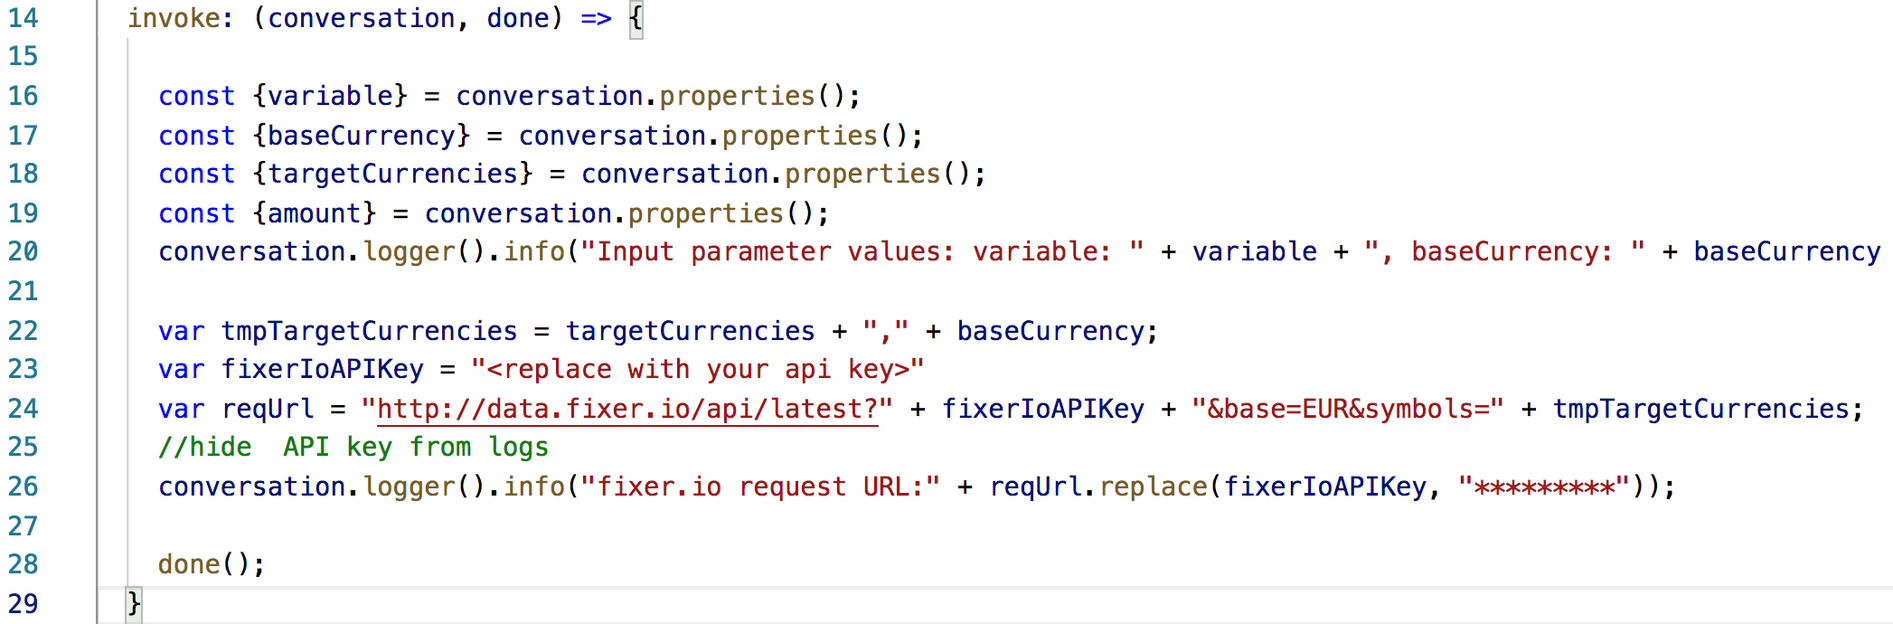
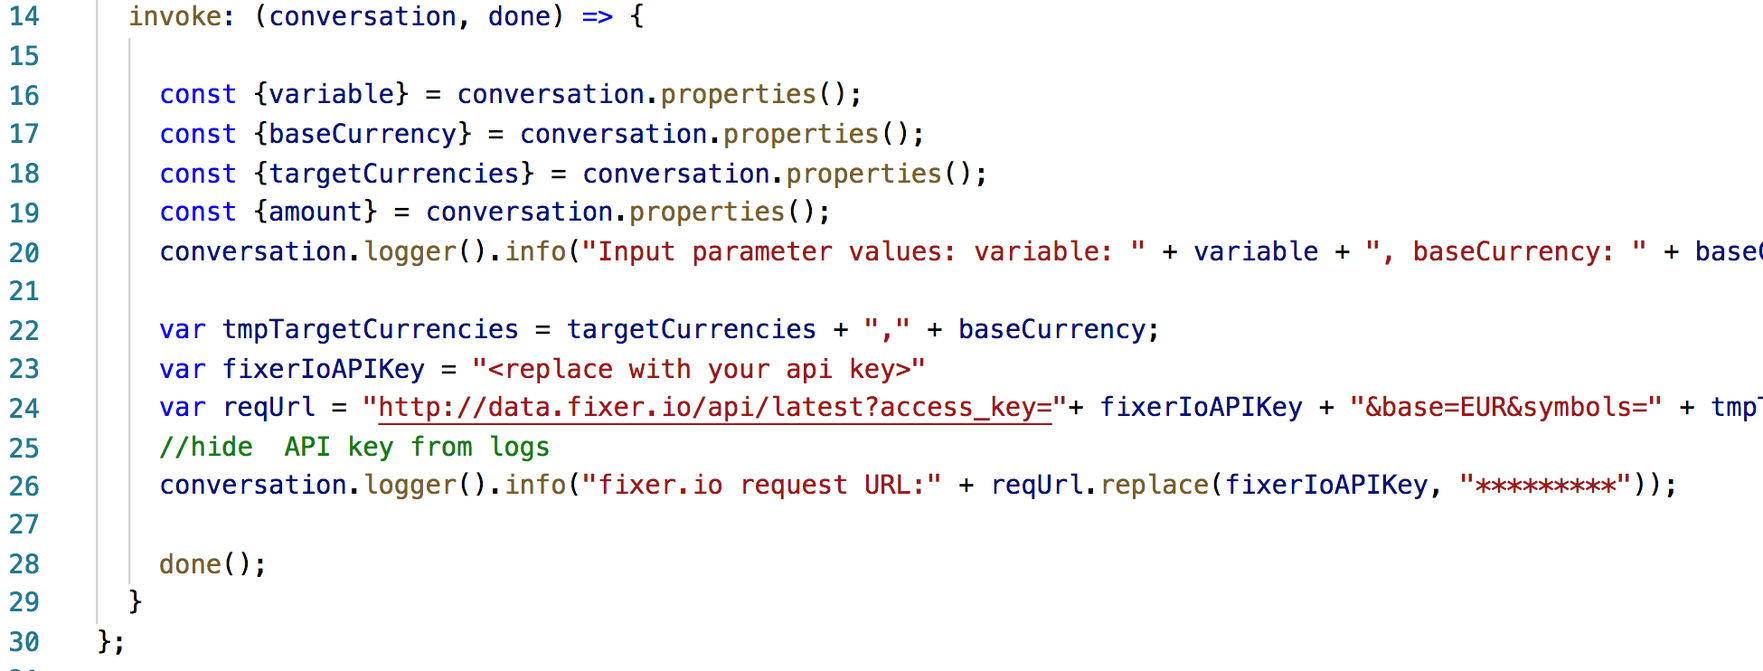
- Fixes - Relinking to Oracle Docs tutorials - New facebook Messenger channel tutorial - Custom component tutorial progress

diff --git a/tutorials/customcomponents/componentDevelopment_032019/index.html b/tutorials/customcomponents/componentDevelopment_032019/index.html
@@ -110,7 +110,7 @@
                     </section>
                     <hr>
                     <section>
-                        <h2 id="section_2" role="button" style="text-align: left;"><img src="img/32_2.png" alt="section 2" height="32" width="32" class="num_circ">Subscribing to fixer.io</h2>
+                        <h2 id="section_2" role="button" style="text-align: left;"><img src="img/32_2.png" alt="section 2" height="32" width="32" class="num_circ">Requesting a fixer.io Currency Converter API Key</h2>
                         <p style="text-align:justify">Fixer website, <a href="https://fixer.io" target="_blank"><b>fixer.io</b></a>, offers current and historic exchange rates for up to 170 currencies. To complete this tutorial, you need a free subscription that allows you to access current conversion rates. To complete this tutorial you will need a free account to access current exchange rates.</p>
                         <ol>
                             <li style="text-align:justify">Open the <a href="https://fixer.io" target="_blank"><b>fixer.io</b></a> in a browser window.</li>
@@ -214,16 +214,17 @@
                                 <pre>
 var tmpTargetCurrencies = targetCurrencies+","+baseCurrency;
 var fixerIoAPIKey = "&lt;replace with your api key&gt;"
-var reqUrl = "http://data.fixer.io/api/latest?"+fixerIoAPIKey+"&amp;base=EUR&amp;symbols="+tmpTargetCurrencies;
+var reqUrl = "http://data.fixer.io/api/latest?access_key="+fixerIoAPIKey + "&amp;base=EUR&amp;symbols=" + tmpTargetCurrencies;
 conversation.logger().info("fixer.io request URL:"+reqUrl.replace(fixerIoAPIKey,"*********"));
                             </pre>
+                                <b>Note:</b> You can download this code from <a href="files/converteruri.txt" target="_blank"><b>here</b></a> for easy copy & paste.
                             </li>
                             <li style="text-align:justify">The custom component's <b>invoke</b> should now look as shown in the image below<br>
                                 <figure><img src="img/jsedit_5.png" alt="component code"></figure>
                             </li>
                         </ol>
                         <p style="text-align:justify"><b>What you just did: </b> The free fixer.io subscription key only supports EUR as the base currency. To be able to still allow users to specify any currency as the base currency, the fixer.io request URL needs to contain the user specified base currency as an additional value for the target currency. The <code>replace(...)</code> function in the logging statement ensures that your fixer.io API key does not show in the log message.</p>
-                        <h3>Sending the request</h3>
+                        <h3>Adding the currency conversion code</h3>
                         <p style="text-align:justify">In this tutorial you use the <i>request</i> Node.js module to access the fixer.io REST service. Note that there exist other Node modules, e.g. <i>https</i> as part of the Node core installation, for the same.</p>
                         <ol>                            
                             <li style="text-align:justify">Open the terminal window again and navigate into the <b>converterccs</b> folder </li>
@@ -243,64 +244,127 @@ request(reqUrl, {json: true }, (err, res, body) => {
                             </pre>
                             <li style="text-align:justify">Your code should look as in the image below:<br>
                             <figure><img src="img/jsedit_6.png" alt="request call" width="100%" height="100%"></figure></li>
-                            <li style="text-align:justify">...</li>
+                            <li style="text-align:justify"><b>Remove</b>the <b>done();</b> code line (line 31 in above image). This code will move to another location in the final currency conversion implementation. It was left in as a reminder because it is an important (mandatory) call to make at the end of custom component processing.<br><br>
+                            <b>Note: </b>With this you defined the basic outline of the <i>complete.training.CurrencyConverter</i> component. What's missing is the code that actually implements the conversion of a base currency amount into one or more target currencies. The code for this is provided for you. So next you will be adding the provided code to your custom component. 
+                            
+                            </li>                            
+                            <li style="text-align:justify">Click <a href="files/converterimpl.txt" target="_blank"><b>this link</b></a> to open the <i>converterimpl.txt</i> text file that contains the currency converter implementation code</li>
+                            <li style="text-align:justify">Select and Copy all the code lines into the clipboard (ctrl+c on Windows or command+c on MAC).</li>
+                            <li style="text-align:justify">Place your mouse cursor into the <b>request function body</b> (line 29 in the image above).</li>
+                            <li style="text-align:justify">Paste the code from the cliboard (ctrl+v on Windows or command+v on MAC).</li>
+                            <li style="text-align:justify">Save your work.</li>
+                            <li style="text-align:justify"><b>Compare</b> your custom component with <a href="files/completecode.txt" target="_blank"><b>this sample code</b></a>. </li> Use this sample also as a reference find and fix problems in your code that may show testing in Oracle Digital Assistant.
                         </ol>
+                        <p style="text-align:justify"><b>Note: </b> Let's hold on for a few minutes to understand the implementation code you just added.<br><figure><img src="img/jsedit_7.png" alt="completed request function" width="100%" height="100%"></figure></p>
+                        
+                        <table class="body-table" style="text-align:justify" summary="This table ...">
+                            <tr>
+                                <th scope="col">Line</th>
+                                <th scope="col">Description</th>
+                            </tr>
+                             <tr>
+                                    <td scope="row">28</td>
+                                    <td>This code line performs the REST call to the fixer.io website. It then calls and anonymous function to which it passes the response object (res), the response body (body) and, if existing, the error object (err)</td>
+                             </tr>
+                             <tr>
+                                 <td scope="row">30</td>
+                                 <td>If the REST service call succeeded, then a http status code of 200 is returned.</td>
+                             </tr>
+                             <tr>
+                                 <td scope="row">31</td>
+                                 <td>Still the response may contain an error, if, for example, the API key that was passed with the request is invalid. This line of code checks the response body for whether the conversion was successful or not.</td>                                 
+                             </tr>
+                            <tr>
+                            <td scope="row">35</td>
+                            <td>If the request returned conversion rates, then these are saved in an array within the response body. The returned body is a JSON object, so that the rates can be accessed from <i>body.rates</i>.</td>
+                            </tr>
+                            <tr>
+                            <td scope="row">36</td>
+                            <td>To work around one of the limitation of the free fixer.io API key, which is that only <i>EUR</i> can be used as a base currency in the request, the base currency sent from the bot is added to the request as a target currecncy. In this line of code, the base currency is removed from the conversation rates so that only target currencies get reported back to the bot.</td>
+                            </tr>
+                            <tr>
+                            <td scope="row">37</td>
+                            <td>Compute the converted amount for the current handled target currency. To get the conversion rate of the target currency  relative to the bot provided base currency (and not EUR), it is needed to divide the target currency rate with the base currency rate (which is the bot provided currency rate in rekation to EUR). The currency symbol (e.g. USD), the conversion rate and the converted amount are then saved to an object, which is added to an array.</td>
+                            </tr>
+                            <tr>
+                            <td scope="row">47</td>
+                            <td>This line, and the following composes the response object that will be returned to the requesting skill. The returned object contains a <i>base</i> property that holds information about the base currency and a <i>conversion</i> property that contains all target currencies and their converted amounts.</td>
+                            </tr>
+                            <tr>
+                            <td scope="row">54</td>
+                            <td>The return object is saved into a dialog flow variable. The name of the dialog flow variable is provided by the bot designer using the custom component's <i>variable</i>property. In the following the custom component triggers navigation to the <i>success</i> transition action before calling <i>done()</i> to return the request to the bot.</td>
+                            </tr>
+                            <tr>
+                            <td scope="row">59+69/</td>
+                            <td>The code sections handle the case where the conversion was not successful (e.g. because of a missing API key) or where the response status code was not 200.</td>
+                            </tr>
+                         </table>
+                        
                     </section>
                     <hr>
                     <section>
                         <h2 id="section_4" role="button" style="text-align: left;"><img src="img/32_4.png" alt="section 4" height="32" width="32" class="num_circ">Custom Component Packaging And Deployment</h2>
+                        <p style="text-align:justify">You can deploy custom components to the local container in a skill, to a remote Node server, or to Oracle MobileHub. In this tutorial, you deploy the custom component service you've built to the local container. For this, you fitrst need to package the custom component service into a deployable file.</p>
+                        <h3>Packaging the component project for deployment</h3>
                         <ol>
-                            <li>...</li>
-                            <li>...</li>
+                            <li>Esnure the custom component service project is saved in your JavaScript IDE.</li>
+                            <li>Open a terminal window and navigate into to the <b>converterccs</b> folder.</li>
+                            <li style="text-align:justify">In the <b>convertercss</b> folder, type <code>npm pack</code> as a command and press the <b>enter-key</b>.The command packages the Node project into a <b>.tgz</b> file.
+                                <figure><img src="img/terminal_3.png" alt="npm pack command" width="100%" height="100%"></figure>
+                                
+                            </li>                                                        
+                        </ol>
+                        <h3>Importing the tester skill</h3>
+                        <p style="text-align:justify"><b>If you work in your own Oracle Digital Assistant instance</b>, then you import the starter skill and use it for the tuorial. In a shared trainings environment, the starter skill most like exists already. In which case we recommend cloning the skill. Skip to the next section to learn about how to clone a skill.</p>
+                        <ol>
+                            <li style="text-align:justify"><a href="..." ><b>Select this link</b></a> to download the provided tester skill.</li>
+                            <li style="text-align:justify">Open the Oracle Digital Assistant dashboard in a browser the following URL <b>&lt;your instance url&gt;/botsui</b>.</li>
+                            <li style="text-align:justify">Select the menu icon at the top-left of the page next to the "Oracle Digital Asisstant" label (<img src="img/hamburger.png" alt="menu icon">). </li>
+                            <li style="text-align:justify">Select the <b>Skills</b> option in the <b>Development</b> category.
+                                <br>
+                                <figure><img src="img/image_001.png" alt="Main Menu"></figure>
+                            </li>
+                            <li style="text-align:justify">Again, <b>click</b> on the menu icon at the top-left of the page to close the menu (<img src="img/hamburger.png" alt="menu icon">).</li>
+                            <li style="text-align:justify">Click the <b>Import Skills</b> button on the top right (<img src="img/importSkillButton.png" height="25" alt="import skill button">).</li>                            
+                            <li style="text-align:justify">On your computer, <b>browse</b> to the location you saved the dowloaded <b>CurrencyConverterTester(1.0).zip</b> file to.</li>
+                            <li style="text-align:justify">Select the CurrencyConverterTester(1.0).zip file and click <b>Open</b> to upload and install the starter skill bot.</li>
+                            <li style="text-align:justify">Locate the <b>CurrencyConverterTester</b> skill and open it by clicking on the CRC Tutorial Skill tile.
+                                <br>
+                                <br><b>Note:</b> If you cannot find the <i>CurrencyConverterTester</i> skill, then try and use the filter field above the <i>New Skill</i> tile to find it. </li>
+                        </ol>
+                        <h3>Cloning the tester skill</h3>
+                        <p style="text-align:justify"><b>If you follow this tutorial in a shared Oracle Digital Assistant instance</b>, like in a training, you should check first if the test skill already exists. If it does, <b>clone</b> the skill instead of importing it. The reason is that you can import a skill with a specific name only once.</p>
+                        <ol>
+                            <li style="text-align:justify">Open the Oracle Digital Assistant dashboard in a browser the following URL <b>&lt;your instance url&gt;/botsui.</b></li>
+                            <li style="text-align:justify">Select the menu icon at the top-left of the page next to the "Oracle Digital Asisstant" label (<img src="img/hamburger.png" alt="menu icon">). </li>
+                            <li style="text-align:justify">Select the <b>Skills</b> option in the <b>Development</b> category.
+                                <br>
+                                <figure><img src="img/image_001.png" alt="Main Menu"></figure>
+                            </li>
+                            <li style="text-align:justify"><b>Click</b> on the menu icon at the top-left of the page to close the menu (<img src="img/hamburger.png" alt="menu icon">).
+                            <li style="text-align:justify">If you cannot spot the <i>CurrencyConverterTester</i> skill, then try and use the filter field above the <i>'New Skill'</i> tile to find it. If still you cannot find it, import the skill as explained in the previous section.</li>
+                            <li style="text-align:justify">To clone the CurrencyConverterTester skill, use the <b>Clone</b> menu option of the <b>CurrencyConverterTester</b> skill shown in the image below.
+                                <br>
+                                <figure><img src="img/skill_01.png" alt="Cloning a skill"></figure>
+                                <br>
+                            </li>
+                            <li style="text-align:justify">In the opened dialog, provide a display name with your initials in it (e.g. "FN_CurrencyConverterTester").</li>
+                            <li style="text-align:justify">Optionally, provide a description.</li>
+                            <li style="text-align:justify">Create the clone and open it to continue this tutorial.</li>
                         </ol>
                     </section>
+                    <h3>Deploying your custom component to the tester skill</h3>
+                    <p style="text-align:justify">...</p>
                     <hr>
                     <section>
                         <h2 id="section_5" role="button" style="text-align: left;"><img src="img/32_5.png" alt="section 5" height="32" width="32" class="num_circ">Custom Component Testing</h2>
+                        <p style="text-align:justify">The skill bot dialog flow is readily setup for you to test the bot. If you followed the steps in this tutorial closely, then the component name, the input parameter names and the action transition names match the names used in the <b>CurrencyConverterTester</b> dialog flow state of the tester skill.</p>
+                        <p style="text-align:justify"><b>Note: </b> The tester flow uses a composite bag entity to navigate users through the steps to provide the base currency, a conversion amount and one or many target currencies. Though the currency converter you built supports all world currencies, the tester uses a reduced list.</p>
+                        <p style="text-align:justify"><b>Note: </b>If you are interested, follow <a href="https://docs.oracle.com/en/cloud/paas/digital-assistant/tutorial-entities/index.html" target="_blank"><b>this link</b></a> to learn about how to create and use composite bag entities.</p>
                         <ol>
                             <li>...</li>
                         </ol>
-                    </section>
-                    <hr>
-                    <section>
-                        <h2 id="section_6" role="button" style="text-align: left;"><img src="img/32_6.png" alt="section 6" height="32" width="32" class="num_circ">Step Title</h2>
-                        <ol>
-                            <li>...</li>
-                        </ol>
-                    </section>
-                    <hr>
-                    <section>
-                        <h2 id="section_7" role="button" style="text-align: left;"><img src="img/32_7.png" alt="section 7" height="32" width="32" class="num_circ">Step Title</h2>
-                        <ol>
-                            <li>...</li>
-                        </ol>
-                    </section>
-                    <hr>
-                    <section>
-                        <h2 id="section_8" role="button" style="text-align: left;"><img src="img/32_8.png" alt="section 8" height="32" width="32" class="num_circ">Step Title</h2>
-                        <ol>
-                            <li>...</li>
-                        </ol>
-                    </section>
-                    <hr>
-                    <section>
-                        <!-- Include the Next section only in a lab series or tutorial series -->
-                        <!-- Don't include this section if you plan to use the tutorials in a learning path -->
-                        <h2 id="next" role="button" style="text-align: left;"><img src="img/32_next.png" alt="next step" height="32" width="32" class="num_circ">Next Tutorial</h2>
-                        <p class="MsoNormal" style="text-align:justify"><span style="mso-ansi-language:EN-US" lang="EN-US">...</span></p>
-                    </section>
-                    <hr>
-                    <section>
-                        <!-- Include the More Information section only in a standalone tutorial or in the final lab or tutorial in a series (not in a learning path) -->
-                        <h2 id="more_info" role="button" style="text-align: left;"><img src="img/32_more.png" alt="more information" height="32" width="32" class="num_circ">Want to Learn More?</h2>
-                        <ul>
-                            <li><a href=".html" target="_blank">More information link here</a></li>
-                            <li><a href=".html" target="_blank">More information link here</a></li>
-                            <li><a href=".html" target="_blank">More information link here</a></li>
-                            <li><a href=".html" target="_blank">More information link here</a></li>
-                        </ul>
-                    </section>
-                    <hr>
+                    </section>                                       
                 </article>
             </div>
             <br class="clearfloat">

diff --git a/tutorials/commonResponseComponent_032019/index.html b/tutorials/commonResponseComponent_032019/index.html
@@ -122,7 +122,7 @@
                             <li style="text-align:justify">Type <i>'I like to order a large pizza pepperoni'</i> (without quotes) into the <b>Message</b> field and press the <b>Send</b> key.</li>
                             <li style="text-align:justify">Note that the intent tester indicates the <i>'OrderPizza'</i> intent with a probabily of 100% and that both entities, <i>'PizzaType'</i> and <i>'PizzaSize'</i> could extract their values from the user input.</li>
                             <li style="text-align:justify">Press the <b>Reset</b> botton in the tester header and type <i>'Gimme a pizza supreme'</i> (without quotes).</li>
-                            <li style="text-align:justify"> Note that the returned confidence level for the <i>'PizzaOrder'</i> intent. This time, however, only one of the two entities could be extracted from the user message, so that the bot dialog flow would need to explicitly ask for the pizza size to order.</li>
+                            <li style="text-align:justify"> Note that the returned confidence level for the <i>'OrderPizza'</i> intent. This time, however, only one of the two entities could be extracted from the user message, so that the bot dialog flow would need to explicitly ask for the pizza size to order.</li>
                             <li style="text-align:justify"><b>Close the intent tester</b> by clicking the close button (<img alt="close button" src="img/closeButton.png" height="25" />).</li>
                             <li style="text-align:justify"><b>Select</b> the entity icon from the menu (<img alt="entity icon" src="img/entity.png" height="25" />).</li>
                             <li style="text-align:justify">Notice the <i>'CheeseType'</i>, <i>'NoToppings'</i>, <i>'PizzaCrust'</i>, <i>'PizzaSize'</i>, <i>'PizzaToppings'</i> and <i>'PizzaType'</i> entities that contribute the information required for a pizza order. In this tutorial, to reduce the scope, you are going to work with the <i>'PizzaType'</i> and <i>'PizzaSize'</i> entties only.</li>
@@ -287,7 +287,7 @@
                                 </tr>
                                 <tr>
                                     <td scope="row">label</td>
-                                    <td>When the list data is read from a value-list entity, then the currently stamped item is accssed through the <i>${enumValue}</i> expression. An Apache FreeMarker expression <i>?capitalize</i> is used to create a user-friendly message format form the all-uppercase pizza type names in the entity.</td>
+                                    <td>When the list data is read from a value-list entity, then the currently stamped item is accessed through the <i>${enumValue}</i> expression. An Apache FreeMarker expression <i>?capitalize</i> is used to create a user-friendly message format form the all-uppercase pizza type names in the entity.</td>
                                 </tr>
                                 <tr>
                                     <td scope="row">variables</td>
@@ -414,7 +414,7 @@
                                 <figure><img src="img/orderPizza_2.png" alt="orderPizza state with cards"></figure>
                             </li>
                             <li style="text-align:justify">Press the <b>Validate</b> button to ensure the component state to be valid.</li>
-                            <li style="text-align:justify">Edit the <b>pizzaOrder</b> state following the instructions in the table below. The image below the table provides you with a visual clues of how ths should look in the end.
+                            <li style="text-align:justify">Edit the <b>orderPizza</b> state following the instructions in the table below. The image below the table provides you with a visual clues of how ths should look in the end.
                                 <br>
                                 <table style="text-align:justify" summary="pizza order state changes">
                                     <tr>

diff --git a/index.html b/index.html
@@ -171,7 +171,7 @@
                             <li><a href="trainings/completetraining/06/06_01_Routing_0319.pdf">How the digital assistant routes requests to skills</a>
 
 
-                                <p><i><a href="../OracleTechExchange/tutorials/oda_routing_032019/index.html">Tutorial: Introduction to Routing in Oracle Digital Assistant</a></i></p>
+                                <p><i><a href="https://docs-stage.oracle.com/en/cloud/paas/digital-assistant/tutorial-routing/index.html">Tutorial: Introduction to Routing in Oracle Digital Assistant</a></i></p>
                             </li>
 
 
@@ -199,7 +199,7 @@
                         <ul>
                             <li><a href="trainings/completetraining/08/08_01_Built_in_Channels 0319.pdf">The built-in channels in ODA</a>
                                 <p><i><a href="tutorials/channels/web/index.html" target="_blank">Web channel hands on tutorial</a></i></p>
-                                <p><i><a href="trainings/completetraining/08/">Facebook Messenger hands on tutorial (Coming soon)</a></i></p>
+                                <p><i><a href="https://docs.oracle.com/en/cloud/paas/digital-assistant/tutorial-facebook/index.html">Facebook Messenger hands on tutorial</a></i></p>
                             </li>
 
                             <li><a href="trainings/completetraining/08/08_02_Webhook_0319.pdf">Understanding webhooks</a>
@@ -257,7 +257,7 @@
                             <h3>Overview to Routing in Oracle Digital Assistant </h3>
                             <p style="text-align:justify">In this one-hour tutorial you will use three pre-defined skills to create your own personal digital assistant (DA) on the Oracle Digital Assistant platform (ODA). You will also get hands-on experience tuning your digital assistant’s conversational capabilities and interaction style.</p>
                             <p><b>
-                                    <a href="../OracleTechExchange/tutorials/oda_routing_032019/index.html">Tutorial: Introduction to Routing in Oracle Digital Assistant</a></b><br>
+                                    <a href="https://docs-stage.oracle.com/en/cloud/paas/digital-assistant/tutorial-routing/index.html">Tutorial: Introduction to Routing in Oracle Digital Assistant</a></b><br>
                             </p>
 
                             <h3>Building a Simple End-to-End Skill</h3>
@@ -302,10 +302,9 @@
                             <h3>Deploying Your Digital Assistant Through a Channel</h3>
                             <p style="text-align:justify">Two tutorials that step you through deploying your digital assistant through a Web page or Facebook Messenger. &nbsp; <br>
                             </p>
-                            <p><b><a href="tutorials/channels/web/index.html" target="_blank">Tutorial: Deploying a digital assistant through a Web page </a></b><br>
+                            <p><b><a href="https://docs.oracle.com/en/cloud/paas/digital-assistant/tutorial-web-channel/index.html" target="_blank">Tutorial: Deploying a digital assistant through a Web page </a></b><br>
                             </p>
-                            <p><b><a href="">Tutorial: Deploying a digital assistant through Facebook Messenger (Coming soon)</a></b><br>
-                            </p>
+                            <p><b><a href="https://docs.oracle.com/en/cloud/paas/digital-assistant/tutorial-facebook/index.html">Facebook Messenger hands on tutorial</a></p><b><br>                            
                             <h3>Human Agent Integration</h3>
                             <p style="text-align:justify">In this tutorial you learn how to add live agent
                                 chat functionality to an Oracle Digital Assistant bot
